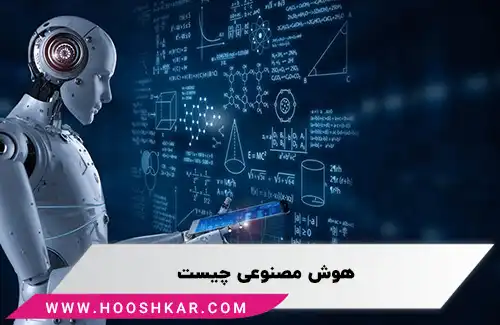
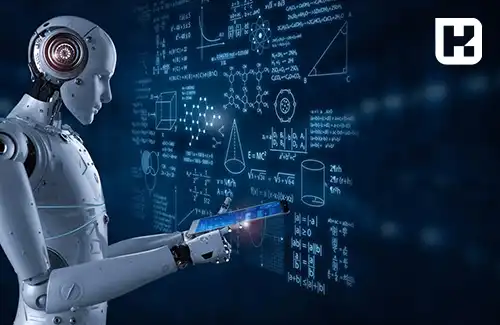
افزودن عکس جدید + واترمارک

Changed region(s): [[0.0, 0.7385, 0.99, 0.9846], [0.87, 0.0308, 0.99, 0.2154]]

diff --git a/It/ArtificialIntelligence.md b/It/ArtificialIntelligence.md
@@ -2,7 +2,7 @@
 title: هوش مصنوعی چیست و چرا اهمیت دارد؟
 author: سمانه رشوند
 description: آیا میخواهید با هوش مصنوعی آشنا شوید؟ در این مقاله، انواع هوش مصنوعی، کاربردها و روشهای یادگیری ماشین را کشف کنید و ببینید چگونه این تکنولوژی دنیای ما را تغییر میدهد.
-dateModified: 2025/01/16
+dateModified: 2025/01/19
 datePublished: 2023/05/28
 uid: It/ArtificialIntelligence
 ---
@@ -64,6 +64,8 @@ uid: It/ArtificialIntelligence
 - **شبکههای عصبی (Neural Networks):** مدلسازی مغز انسان برای شبیهسازی فرآیندهای شناختی.
 - **اتوماسیون فرآیندهای تکراری:** استفاده از نرمافزارها و رباتها برای خودکارسازی فرآیندهای تکراری.
 - **یادگیری ماشین (Machine Learning) و پیشبینی پاسخها:** استفاده از دادهها برای پیشبینی نتایج آینده.
+
+![نقش حیاتی دیتاسنترها در کسبوکارهای مدرن](./Images/MachineLearning.webp)
 
 ### 6. یادگیری ماشین (Machine Learning) چیست؟
 یادگیری ماشین یکی از شاخههای هوش مصنوعی است که به سیستمها این امکان را میدهد تا بدون برنامهریزی مستقیم، از دادهها یاد بگیرند و نتایج خروجی دقیقتری را پیشبینی کنند. این فناوری بهطور گسترده در تحلیل دادهها، پیشبینیها و بهینهسازی فرآیندها به کار میرود.
